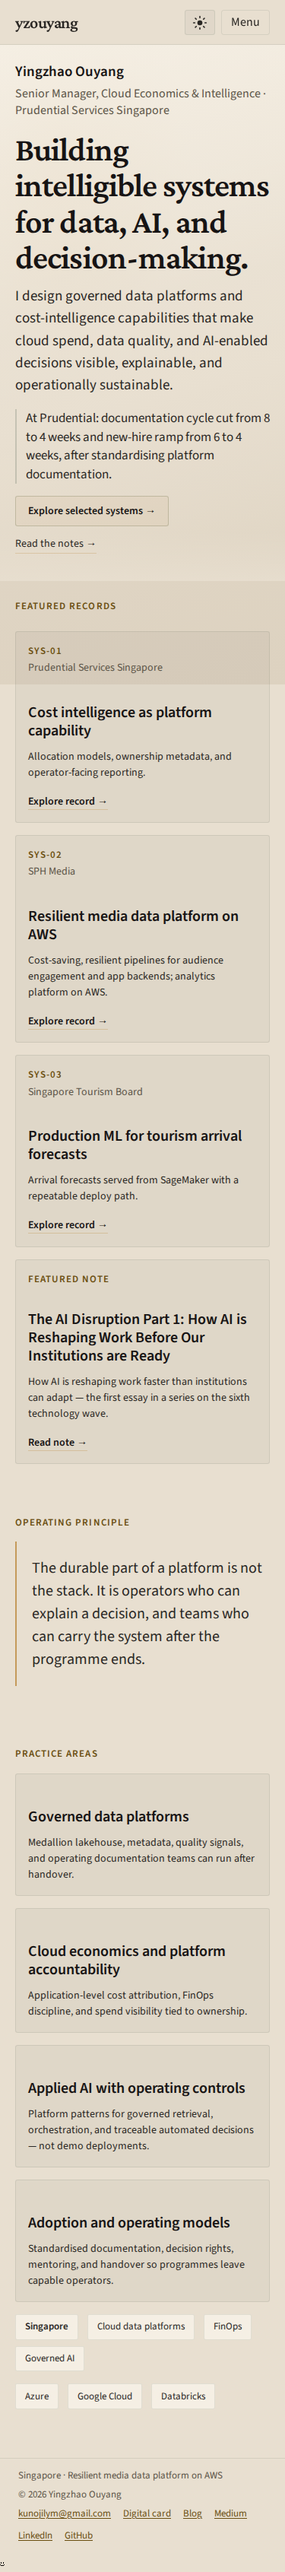
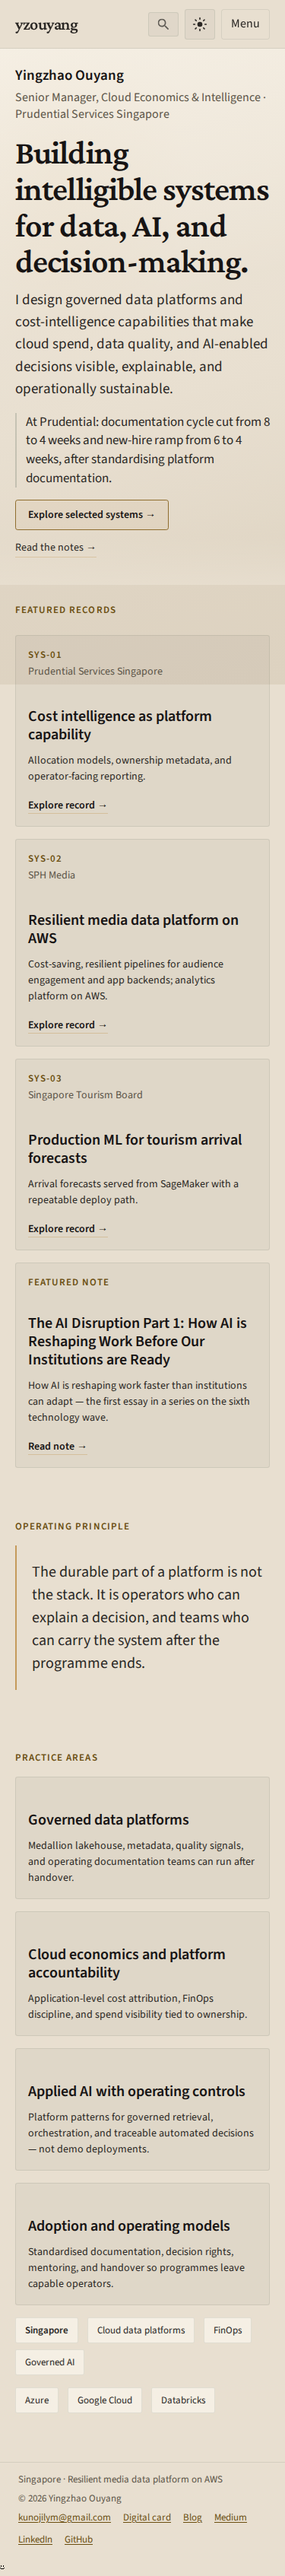
fix(home): raise the primary border to 3:1 and restore compact control height
The outlined CTA was a 10% brass mix, short of 3:1 on both pages. Dark mixes 45% accent into the hairline so the edge lands on 3:1. Light mixes 40% accent into the hardened accent, because solid brass is only about 2:1 on parchment. Theme and Menu stay 40px below 48rem and share the header height above it.

diff --git a/src/styles/home.css b/src/styles/home.css
@@ -185,7 +185,9 @@ body:has(main.home-route) .site-header {
   height: var(--space-10);
   padding: 0 var(--space-4);
   white-space: nowrap;
-  border: 1px solid color-mix(in srgb, var(--accent) 10%, var(--line-strong));
+
+  /* Dark page: ~45% brass in the hairline is 3:1. Light parchment needs the hardened accent. */
+  border: 1px solid color-mix(in srgb, var(--accent) 45%, var(--line-strong));
   border-radius: var(--radius-md);
   background: color-mix(in srgb, var(--accent) 8%, transparent);
   color: var(--text-strong);
@@ -197,8 +199,14 @@ body:has(main.home-route) .site-header {
 .entrance-action--primary:hover,
 .entrance-action--primary:focus-visible {
   color: var(--text-strong);
-  border-color: color-mix(in srgb, var(--accent) 10%, var(--line-strong));
+  border-color: color-mix(in srgb, var(--accent) 45%, var(--line-strong));
   background: color-mix(in srgb, var(--accent) 10%, transparent);
+}
+
+[data-theme="light"] .entrance-action--primary,
+[data-theme="light"] .entrance-action--primary:hover,
+[data-theme="light"] .entrance-action--primary:focus-visible {
+  border-color: color-mix(in srgb, var(--accent) 40%, var(--accent-text));
 }
 
 .entrance-action--primary:focus-visible {

diff --git a/src/styles/chrome.css b/src/styles/chrome.css
@@ -433,10 +433,14 @@ html[data-reading-size="xlarge"] .header-actions {
   .theme-toggle:not(.reading-size-toggle) {
     position: relative;
     inline-size: var(--space-10);
-    block-size: var(--header-control-height);
-    height: var(--header-control-height);
+    block-size: var(--space-10);
+    height: var(--space-10);
     padding: 0;
     justify-content: center;
+  }
+
+  .nav-menu > summary {
+    height: var(--space-10);
   }
 
   .theme-toggle-label {
